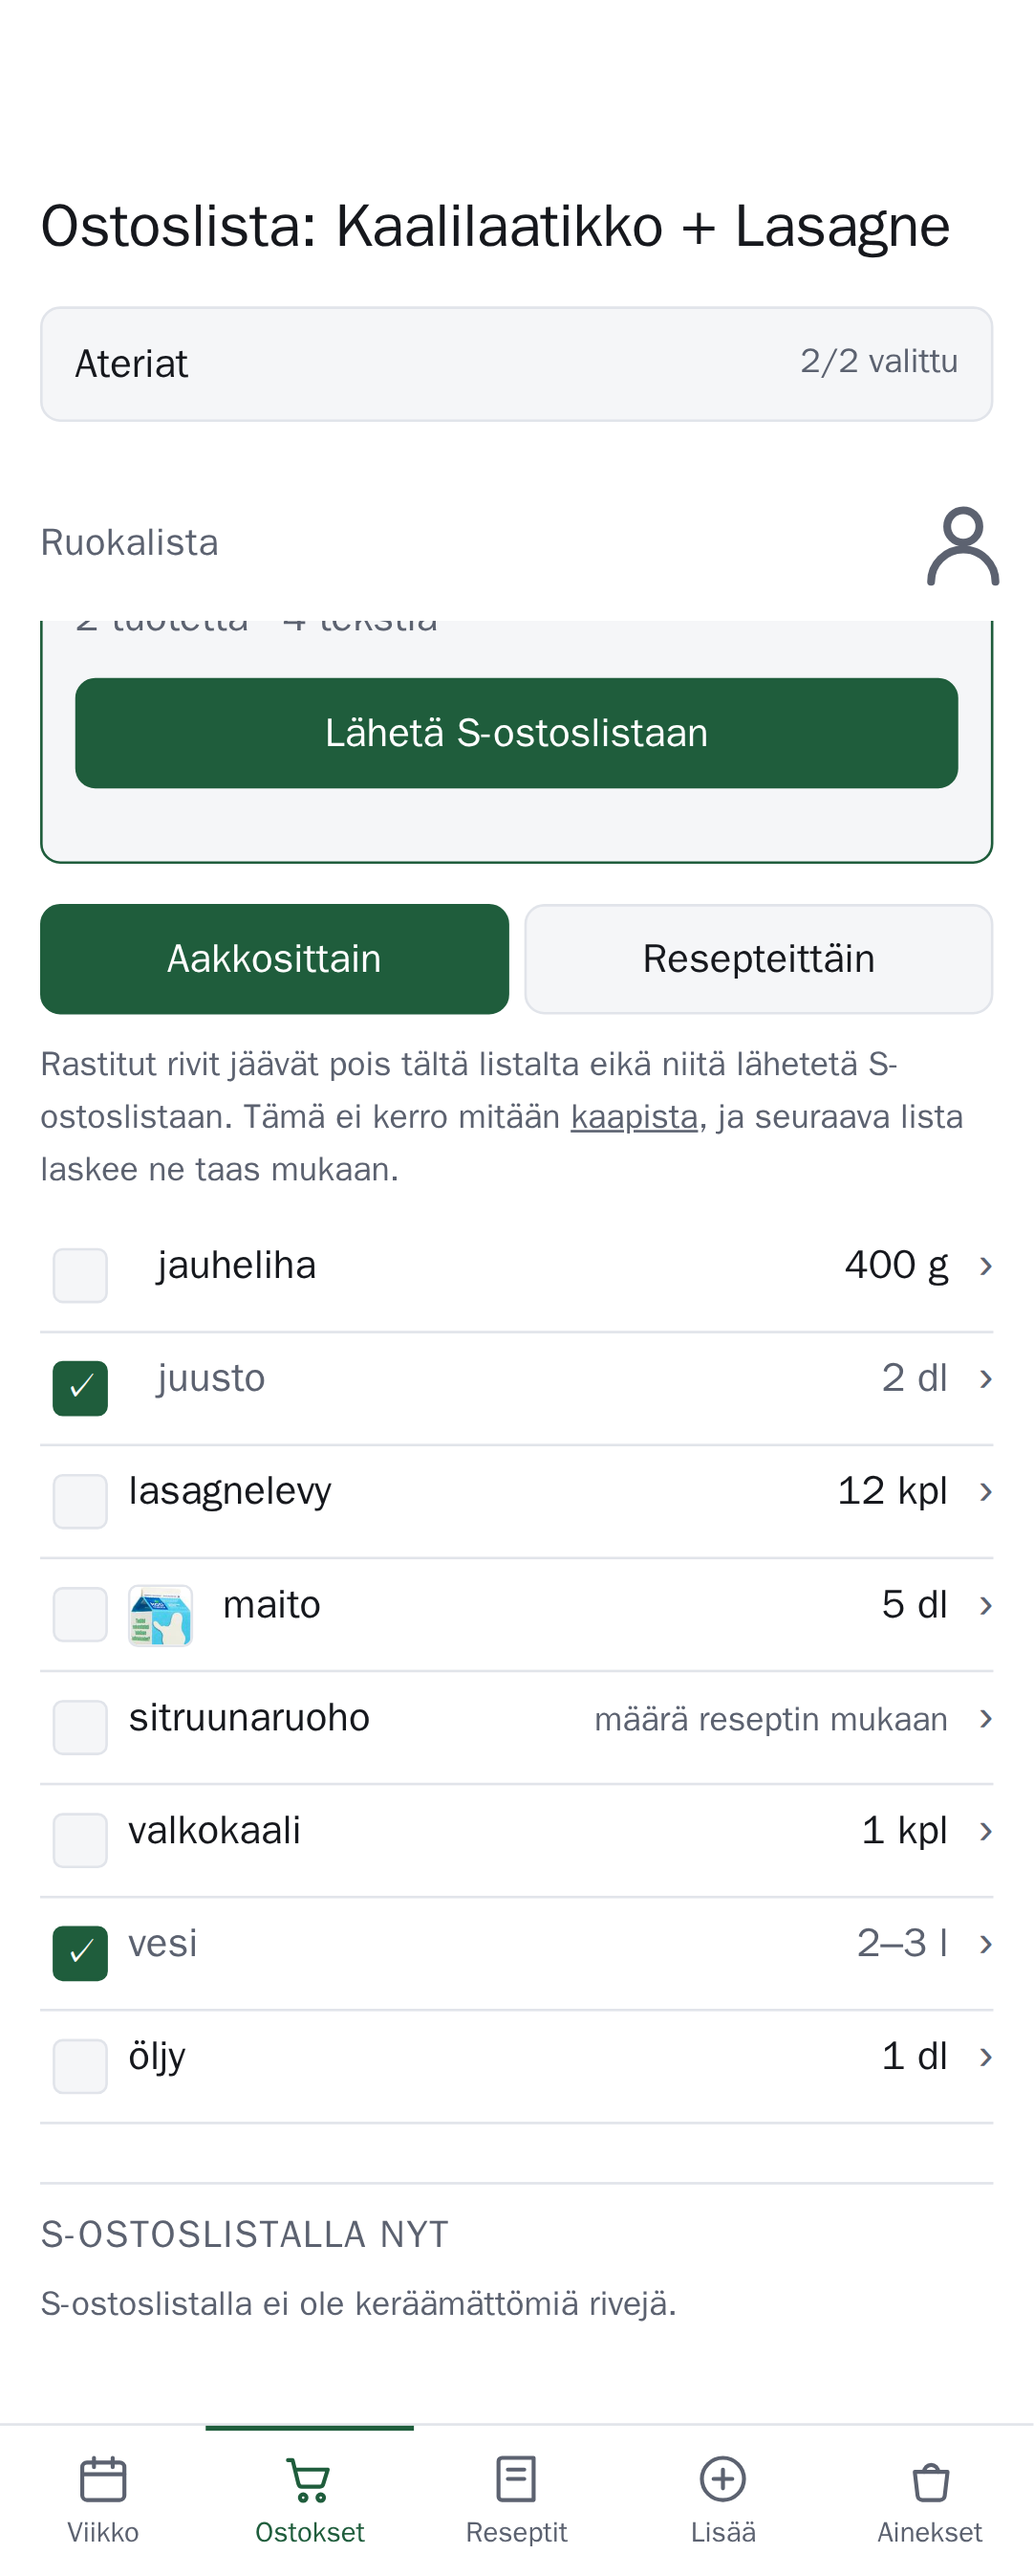
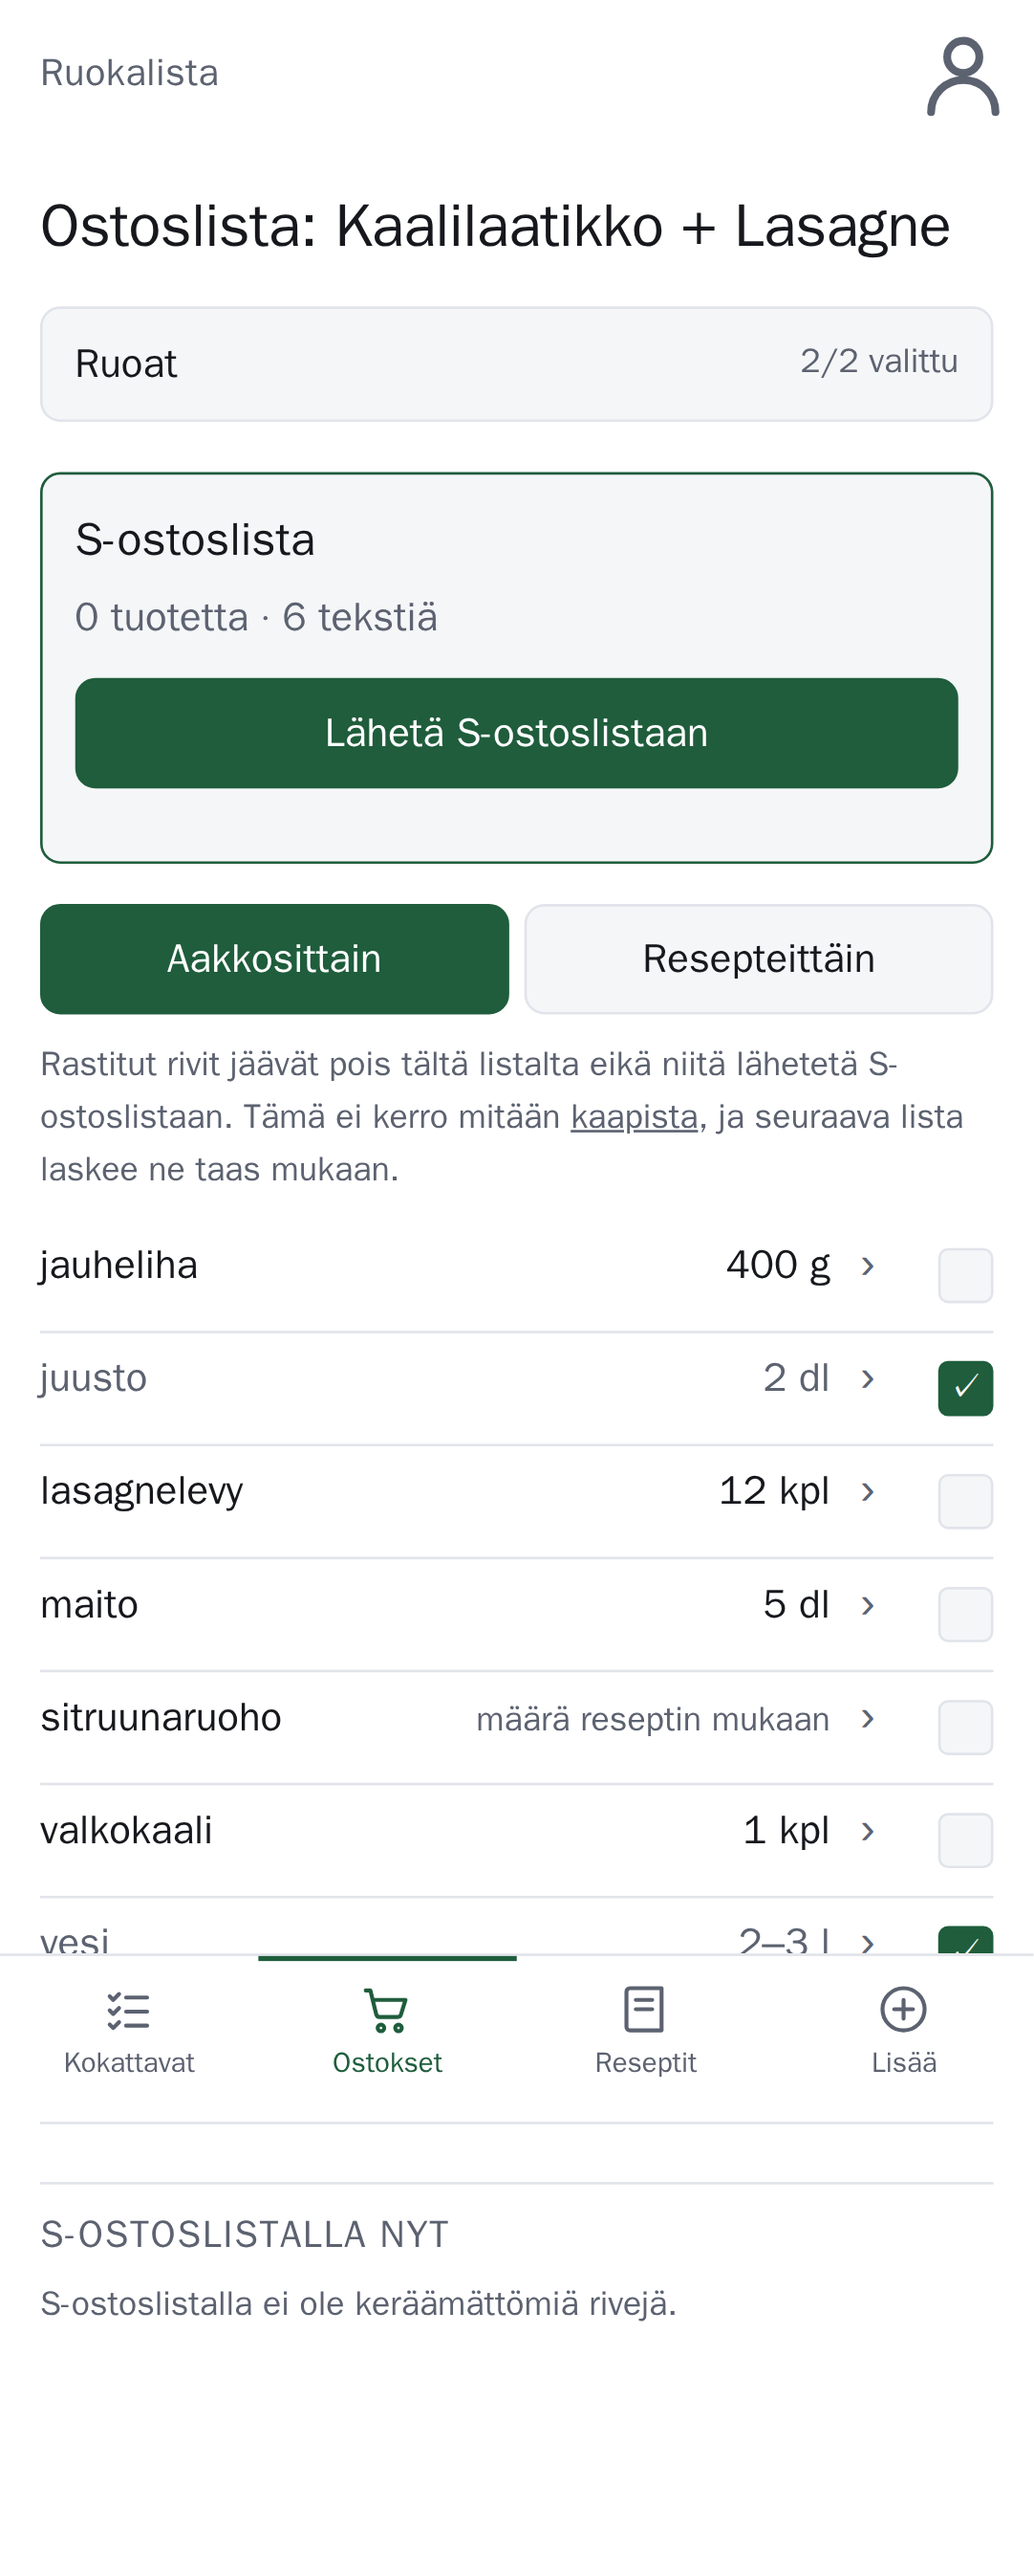
Tick a shopping row off in place, at the right end of the row (#358)
The tick moves to the end of the row and, with scripts, no longer loads a
page: "not this time" lives only in the address, so a new tick client
rewrites the address, the forms' hidden pois fields, the links back to the
list and the send counts in place, and keeps the tapped row under the thumb
when the left-off sentence appears above the list. The link stays the
no-script path.

Also records the owner's narrowing of the no-script rule: only the recipe
reading page has to work without JavaScript.

diff --git a/src/client/shopping-ticks.ts b/src/client/shopping-ticks.ts
@@ -1,0 +1,147 @@
+/**
+ * Ticking a row off the shopping list without leaving the page (#358).
+ *
+ * "Not this time" (#313) is stored nowhere but the list's own address — the
+ * `pois` keys — so a tick has nothing to save and nothing to ask the server.
+ * Without this file each tick is a link to the next address and a whole page
+ * load; with it, the tap flips the row and rewrites that address in place:
+ * the address bar, every form's hidden `pois` fields and every link back to
+ * the list, so whatever is pressed next carries the same selection the server
+ * would have drawn into it.
+ *
+ * The links stay real links underneath, which is the no-script path, and the
+ * send counts above the list are recounted from the rows themselves so a
+ * product picked since the page loaded counts as a product.
+ */
+
+var EXCLUDED = "pois";
+/** Every form that carries the whole selection carries this field too. */
+var CHOSEN = "valittu";
+/** `shopping-screens.ts::PANTRY_LIST`: cupboard rows are never on the trip. */
+var PANTRY_LIST = "loytyy";
+
+(function () {
+  if (!document.querySelector || typeof URL !== "function" || !window.history || !window.history.replaceState) return;
+
+  var excluded: string[] = new URL(window.location.href).searchParams.getAll(EXCLUDED);
+
+  function has(key: string): boolean {
+    return excluded.indexOf(key) !== -1;
+  }
+
+  function toggled(key: string): string[] {
+    var next: string[] = [];
+    var index: number;
+    for (index = 0; index < excluded.length; index += 1) {
+      if (excluded[index] !== key) next.push(excluded[index]!);
+    }
+    if (!has(key)) next.push(key);
+    return next;
+  }
+
+  /** The same list address, with `keys` as its rows left off. */
+  function withExcluded(href: string, keys: string[]): string {
+    var url = new URL(href, window.location.href);
+    url.searchParams.delete(EXCLUDED);
+    var index: number;
+    for (index = 0; index < keys.length; index += 1) url.searchParams.append(EXCLUDED, keys[index]!);
+    return url.pathname + url.search + url.hash;
+  }
+
+  function each<T extends Element>(selector: string, run: (element: T) => void): void {
+    var found = document.querySelectorAll<T>(selector);
+    var index: number;
+    for (index = 0; index < found.length; index += 1) run(found[index]!);
+  }
+
+  function apply(): void {
+    window.history.replaceState(window.history.state, "", withExcluded(window.location.href, excluded));
+
+    each<HTMLAnchorElement>("a.row-tick[data-rivi]", function (tick) {
+      var key = tick.getAttribute("data-rivi") || "";
+      var name = tick.getAttribute("data-nimi") || "";
+      var on = has(key);
+      tick.className = on ? "row-tick is-on" : "row-tick";
+      var label = on
+        ? "Ota " + name + " takaisin listalle"
+        : "Jätä " + name + " pois tältä listalta";
+      tick.setAttribute("aria-label", label);
+      tick.setAttribute("title", label);
+      tick.setAttribute("href", withExcluded(tick.getAttribute("href") || "", toggled(key)));
+      var row = tick.parentElement ? tick.parentElement.querySelector(".shopping-item") : null;
+      if (row) row.className = on ? "shopping-item is-excluded" : "shopping-item";
+    });
+
+    // Every other way back to this list: the grouping pills and the like.
+    each<HTMLAnchorElement>('a[href^="/ostoslista?"]:not(.row-tick)', function (link) {
+      link.setAttribute("href", withExcluded(link.getAttribute("href") || "", excluded));
+    });
+
+    each<HTMLFormElement>("form", function (form) {
+      if (!form.querySelector('input[name="' + CHOSEN + '"]')) return;
+      var old = form.querySelectorAll('input[type="hidden"][name="' + EXCLUDED + '"]');
+      var anchor: Node | null = form.querySelector('input[name="' + CHOSEN + '"]');
+      var index: number;
+      for (index = 0; index < old.length; index += 1) old[index]!.parentNode!.removeChild(old[index]!);
+      for (index = 0; index < excluded.length; index += 1) {
+        var field = document.createElement("input");
+        field.type = "hidden";
+        field.name = EXCLUDED;
+        field.value = excluded[index]!;
+        anchor!.parentNode!.insertBefore(field, anchor!.nextSibling);
+        anchor = field;
+      }
+    });
+
+    each<HTMLElement>(".shopping-excluded-note", function (note) {
+      note.hidden = excluded.length === 0;
+    });
+
+    recount();
+  }
+
+  /** `shopping-screens.ts::externalSendPanel`'s counts, read off the rows. */
+  function recount(): void {
+    var line = document.querySelector<HTMLElement>(".s-send-counts");
+    if (!line) return;
+    var seen: string[] = [];
+    var products = 0;
+    var notes = 0;
+    each<HTMLElement>(".shopping-list[data-lista] .shopping-item[data-rivi]", function (row) {
+      var list = row.closest("[data-lista]");
+      if (list && list.getAttribute("data-lista") === PANTRY_LIST) return;
+      var key = row.getAttribute("data-rivi") || "";
+      if (has(key) || seen.indexOf(key) !== -1) return;
+      seen.push(key);
+      if (row.querySelector(".s-shopping-product.is-mapped")) products += 1;
+      else notes += 1;
+    });
+    line.setAttribute("data-tuotteet", String(products));
+    line.setAttribute("data-muistutukset", String(notes));
+    var text = products + (products === 1 ? " tuote" : " tuotetta");
+    if (notes > 0) text += " · " + notes + (notes === 1 ? " teksti" : " tekstiä");
+    line.textContent = text;
+    var empty = products + notes === 0;
+    line.hidden = empty;
+    each<HTMLElement>(".s-send-form", function (form) {
+      form.hidden = empty;
+    });
+  }
+
+  // Capture phase, so the scroll keeper's bubble-phase listener sees the
+  // press already cancelled and writes nothing down for a page that stays.
+  document.addEventListener("click", function (event) {
+    if (event.defaultPrevented || event.button !== 0) return;
+    if (event.metaKey || event.ctrlKey || event.shiftKey || event.altKey) return;
+    var target = event.target instanceof Element ? event.target.closest("a.row-tick[data-rivi]") : null;
+    if (!target) return;
+    event.preventDefault();
+    excluded = toggled(target.getAttribute("data-rivi") || "");
+    // The first tick shows a sentence above the list and the last one hides
+    // it, which would move every row under the thumb; put the tapped one back.
+    var before = target.getBoundingClientRect().top;
+    apply();
+    var moved = target.getBoundingClientRect().top - before;
+    if (moved !== 0) window.scrollBy(0, moved);
+  }, true);
+})();

diff --git a/tests/shopping.spec.ts b/tests/shopping.spec.ts
@@ -978,24 +978,28 @@ test("removing a row from the cupboard leaves that list where it was", async ({
 
 /**
  * The tick is the list's most-pressed button and the one the card is about: one
- * row changed, by a plain link, and nothing moving under the thumb.
+ * row changed, and nothing moving under the thumb. With the tick client there
+ * is no page load at all (#358), so the row simply stays where it was.
  */
 test("ticking a row off leaves the list where it was", async ({ page }) => {
   await planTheList(page);
   await page.goto("/ostoslista");
-  await scrollDownTheList(page, "öljy");
-
-  await tapAndWait(
-    page,
-    row(page, "öljy").getByRole("link", {
-      name: "Jätä öljy pois tältä listalta",
-    }),
+  await page.evaluate(() =>
+    window.scrollTo(0, document.body.scrollHeight - window.innerHeight),
   );
+  const tick = row(page, "öljy").getByRole("link", {
+    name: "Jätä öljy pois tältä listalta",
+  });
+  await tick.scrollIntoViewIfNeeded();
+  const before = await onScreen(page, "öljy");
 
-  await stillWhereItLeft(page, "öljy");
+  await tickAndWait(page, tick);
+
   await expect(row(page, "öljy").locator(".shopping-item")).toHaveClass(
     /is-excluded/,
   );
+  expect(Math.abs((await onScreen(page, "öljy")) - before)).toBeLessThan(4);
+  expect(new URL(page.url()).hash).toBe("");
 });
 
 /**
@@ -1164,7 +1168,7 @@ test("reading a row leaves no place behind for the next visit", async ({
 async function leaveOff(page: Page, ingredient: string): Promise<void> {
   // One tap on the row's own tick, without opening it: that is the whole point
   // of #318, so the helper every assertion below runs through does it that way.
-  await tapAndWait(
+  await tickAndWait(
     page,
     row(page, ingredient).getByRole("link", {
       name: `Jätä ${ingredient} pois tältä listalta`,
@@ -1189,6 +1193,19 @@ async function tapAndWait(
   await control.click();
   await page.waitForURL((url) => url.href !== before);
   await expect(page.locator(".shopping-list").first()).toBeAttached();
+}
+
+/**
+ * Tap a row's tick, which with the tick client rewrites the address in place
+ * rather than loading a page (#358), and wait until it has.
+ */
+async function tickAndWait(
+  page: Page,
+  control: ReturnType<typeof row>,
+): Promise<void> {
+  const before = page.url();
+  await control.click();
+  await expect.poll(() => page.url()).not.toBe(before);
 }
 
 /** The rows the member has taken off, wherever they sit in the list. */
@@ -1246,7 +1263,7 @@ test("a row left off stays where it was and comes back with one tap", async ({
   await expect(leftOff(page)).toHaveCount(1);
   await expect(leftOff(page)).toContainText("vesi");
 
-  await tapAndWait(
+  await tickAndWait(
     page,
     row(page, "vesi").getByRole("link", { name: "Ota vesi takaisin listalle" }),
   );
@@ -1254,6 +1271,47 @@ test("a row left off stays where it was and comes back with one tap", async ({
   await expect(leftOff(page)).toHaveCount(0);
   await expect(page.locator(".shopping-excluded-note")).toBeHidden();
   expect(await buyRowNames(page)).toEqual(before);
+});
+
+/**
+ * The tick is the list's most-pressed control, and with the tick client it
+ * never loads a page (#358): "not this time" lives only in the address, so
+ * there is nothing to save. What has to follow the tap is everything the next
+ * press reads — the address, the forms' hidden fields, the send counts.
+ */
+test("a tick changes the list in place, without loading a page", async ({
+  page,
+}) => {
+  await planTheList(page);
+  await page.goto("/ostoslista");
+  await page.evaluate(() => {
+    (window as unknown as { samePage: boolean }).samePage = true;
+  });
+  const counts = page.locator(".s-send-counts");
+  const products = Number(await counts.getAttribute("data-tuotteet"));
+  const notes = Number(await counts.getAttribute("data-muistutukset"));
+
+  await leaveOff(page, "vesi");
+
+  expect(
+    await page.evaluate(
+      () => (window as unknown as { samePage?: boolean }).samePage === true,
+    ),
+  ).toBe(true);
+  expect(new URL(page.url()).searchParams.getAll("pois")).toHaveLength(1);
+  await expect(page.locator(".shopping-excluded-note")).toBeVisible();
+  // Water has no product, so it was going as a text row.
+  await expect(counts).toHaveAttribute("data-tuotteet", String(products));
+  await expect(counts).toHaveAttribute("data-muistutukset", String(notes - 1));
+  // Every form that leaves the page carries the new answer.
+  await expect(
+    page.locator('.s-send-form input[type="hidden"][name="pois"]'),
+  ).toHaveCount(1);
+
+  // A reload draws the same list from the address alone.
+  await page.reload();
+  await expect(leftOff(page)).toHaveCount(1);
+  await expect(leftOff(page)).toContainText("vesi");
 });
 
 test("the cupboard and the left-off list stay two separate answers", async ({

diff --git a/src/shopping-screens.ts b/src/shopping-screens.ts
@@ -1,5 +1,6 @@
 import { problem } from "./auth.ts";
 import shoppingClient from "./generated/shopping.ts";
+import shoppingTicks from "./generated/shopping-ticks.ts";
 import { html, page, raw, type Raw } from "./html.ts";
 import type { Member } from "./members.ts";
 import { cookList, type ListedDish } from "./cook-list.ts";
@@ -184,7 +185,8 @@ export async function shoppingScreen(
               ${groupingPills(selection)}
               ${sections(listed, atHome, selected, selection, external)}
               ${external ? currentListPanel() : ""}
-              ${KEEP_PLACE}`}
+              ${KEEP_PLACE}
+              <script>${raw(shoppingTicks)}</script>`}
       ${external ? html`<script>${raw(shoppingClient)}</script>` : ""}`,
     "shopping",
     member,
@@ -1008,6 +1010,7 @@ const rawOpen = raw("open");
 const rawChecked = raw("checked");
 const rawCurrent = raw('aria-current="page"');
 const rawDisabled = raw("disabled");
+const rawHidden = raw("hidden");
 
 /**
  * How the list is cut up, as two pills above it (#318).
@@ -1063,7 +1066,7 @@ function sections(
   selection: Selection,
   external: boolean,
 ): Raw {
-  const note = selection.excluded.size === 0 ? html`` : excludedNote();
+  const note = excludedNote(selection.excluded.size === 0);
 
   // With nothing in the cupboard there is only one list, and a lone
   // "Ostettavat" heading under a heading that already says Ostoslista is a
@@ -1093,8 +1096,10 @@ function sections(
  * that it is *not* the cupboard, and a greyed-out row on its own does not say
  * which of the two sentences it is.
  */
-function excludedNote(): Raw {
-  return html`<p class="empty shopping-excluded-note">
+function excludedNote(hidden: boolean): Raw {
+  // Drawn hidden rather than left out, so the tick client can show it on the
+  // first tick without a round-trip (#358).
+  return html`<p class="empty shopping-excluded-note" ${hidden ? rawHidden : ""}>
     Rastitut rivit jäävät pois tältä listalta eikä niitä lähetetä
     S-ostoslistaan. Tämä ei kerro mitään <a href="/kaappi">kaapista</a>, ja
     seuraava lista laskee ne taas mukaan.
@@ -1185,7 +1190,6 @@ function itemList(
       const excluded = kind === "buy" && selection.excluded.has(item.key);
       const toggle = rowToggleId(item, kind);
       return html`<li class="shopping-row">
-        ${excludeTick(item, selection, kind, excluded)}
         <div
           class="${excluded ? "shopping-item is-excluded" : "shopping-item"}"
           data-product-row
@@ -1244,6 +1248,7 @@ function itemList(
             </div>
           </div>
         </div>
+        ${excludeTick(item, selection, kind, excluded)}
       </li>`;
     })}
   </ul>`;
@@ -1768,6 +1773,8 @@ function excludeTick(
   return html`<a
     class="${excluded ? "row-tick is-on" : "row-tick"}"
     href="${listLocation({ ...selection, excluded: next })}"
+    data-rivi="${item.key}"
+    data-nimi="${item.name}"
     aria-label="${label}"
     title="${label}"
   ></a>`;

diff --git a/src/html.ts b/src/html.ts
@@ -423,8 +423,8 @@ const STYLES = `
      The link is a whole tap target tall and the box is drawn inside it, so a
      thumb hits it without the box having to be finger-sized and shout. */
   .row-tick {
-    flex: none; display: flex; align-items: center; justify-content: center;
-    width: 2rem; min-height: var(--tap); text-decoration: none;
+    flex: none; display: flex; align-items: center; justify-content: flex-end;
+    width: var(--tap); min-height: var(--tap); text-decoration: none;
   }
   .row-tick::before {
     content: ""; display: flex; align-items: center; justify-content: center;
@@ -862,7 +862,8 @@ const STYLES = `
   .shopping-list > li { border-bottom: 1px solid var(--edge); }
   /* The tick sits beside the whole row rather than inside it (#318): it has to
      be one tap without opening the row, and the row's own summary already owns
-     every tap inside itself. */
+     every tap inside itself. It is the row's last thing, at the thumb's edge
+     of the screen (#358). */
   .shopping-row { display: flex; align-items: flex-start; gap: .2rem; }
   .shopping-row > .shopping-item { flex: 1 1 auto; min-width: 0; }
   /* The row line: a label for the checkbox that opens the row's modal (#321),

diff --git a/tests/screenshots.spec.ts b/tests/screenshots.spec.ts
@@ -1611,6 +1611,9 @@ test.describe("signed in", () => {
     await expect(page.locator(".shopping-item.is-excluded")).toHaveCount(2);
     await expect(page.locator(".row-tick.is-on")).toHaveCount(2);
     await expect(page.locator(".shopping-excluded-note")).toBeVisible();
+    // A tick keeps the scroll where the thumb was (#358); the picture is of
+    // the whole list from the top.
+    await page.evaluate(() => window.scrollTo(0, 0));
     await capture(page, {
       path: `${SHOTS}/125-shopping-ticked-off.png`,
       fullPage: true,

diff --git a/docs/codebase/screens.md b/docs/codebase/screens.md
@@ -69,6 +69,13 @@ a link. The whole toggle is a link to the next URL, so it needs no script, no
 write, and no table; `src/shopping.ts::splitByExcluded` does the split, after
 the cupboard's, and `dev/check-shopping-exclusion.ts` tests both straight.
 
+Since #358 the tick sits at the right end of the row and, with scripts, never
+loads a page: `src/client/shopping-ticks.ts` (loaded on every shopping list,
+not only the S-ostoslista household's) flips the row, rewrites the address,
+every selection-carrying form's hidden `pois` fields and every link back to the
+list, recounts the send panel from the rows, and scrolls back by however far
+the left-off sentence above the list moved the tapped row.
+
 `shoppingState` then narrows that set to the rows the list it just computed
 actually has (`rowsThatExist`), and everything the screen emits is built from
 the narrowed set. So `pois=999` is never handed back out, and — this is the
@@ -1012,6 +1019,10 @@ enhancements through feature detection and compatible syntax, add a modest
 fallback when it preserves an important flow, and let unsupported extras fail
 quietly without taking the page with them. Inline browser scripts are delivered
 without transpilation, so write them for the oldest target they need to serve.
+
+The owner narrowed the no-script part in #358: only the recipe reading page has
+to work without JavaScript. The shopping list's existing no-script paths stay
+where they are, but a new control there may require scripts.
 
 ## The recipe-image admin screen
 
